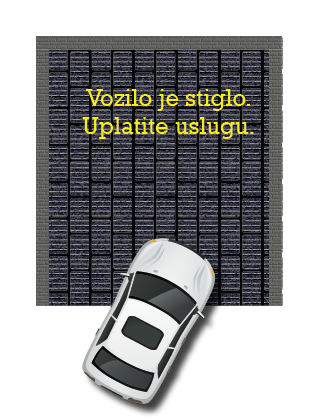
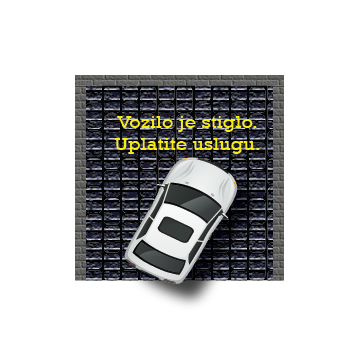
Updated Desing Parking Slots

diff --git a/JavaApp/ParkingSimulator/src/parkingsimulator/Views/MainFrame.java b/JavaApp/ParkingSimulator/src/parkingsimulator/Views/MainFrame.java
@@ -9,12 +9,16 @@ import java.awt.BorderLayout;
 import java.awt.Color;
 import java.awt.Dimension;
 import java.awt.Toolkit;
+import java.awt.image.BufferedImage;
+import java.io.File;
 import java.text.SimpleDateFormat;
 import java.util.ArrayList;
 import java.util.Date;
 import java.util.Random;
 import java.util.logging.Level;
 import java.util.logging.Logger;
+import javax.imageio.ImageIO;
+import javax.swing.ImageIcon;
 import parkingsimulator.Arduino.ArduinoController;
 import parkingsimulator.Models.DBController;
 
@@ -29,6 +33,7 @@ public class MainFrame extends javax.swing.JFrame {
     ArrayList<String> prethodne_poruke=new ArrayList();
     ArrayList<StringBuffer> boje=new ArrayList();
     ArrayList<StringBuffer> ids=new ArrayList();
+    String path = new File("").getAbsolutePath()+"\\src\\parkingsimulator\\Views\\Slike";
     int br_mesta=4;
     public MainFrame() {
         ids.add(new StringBuffer(""));
@@ -78,9 +83,22 @@ public class MainFrame extends javax.swing.JFrame {
                             }
                             System.out.println(boje.get(0).charAt(0));
                             if(boje.get(0).charAt(0)=='y')
-                                ParkingMesto1.setBackground(Color.yellow);
+                               //KOM ParkingMesto1.setBackground(Color.yellow);
+                                 try{
+                             BufferedImage myPicture = ImageIO.read(new File(path+"\\WoziloJeStiglo.png"));
+                              pkLabel0.setIcon(new ImageIcon(myPicture));
+                            }catch(Exception ecc){
+                                ecc.printStackTrace();
+                            }
+                                        
                             else{
-                                ParkingMesto1.setBackground(Color.red);    
+                               //KOM ParkingMesto1.setBackground(Color.red); 
+                                 try{
+                             BufferedImage myPicture = ImageIO.read(new File(path+"\\MestoZauzeto.png"));
+                              pkLabel0.setIcon(new ImageIcon(myPicture));
+                            }catch(Exception ect){
+                                ect.printStackTrace();
+                            }
                             }
                             br_mesta--;
                             btnPlati1.setEnabled(true);
@@ -96,7 +114,14 @@ public class MainFrame extends javax.swing.JFrame {
                             
                             boje.get(0).replace(0, boje.get(0).length(), "y");
                             btnPlati1.setEnabled(false);
-                            ParkingMesto1.setBackground(Color.green);
+                            System.out.println(path);
+                            try{
+                             BufferedImage myPicture = ImageIO.read(new File(path+"\\mestoSlobodno.png"));
+                              pkLabel0.setIcon(new ImageIcon(myPicture));
+                            }catch(Exception ec){
+                                ec.printStackTrace();
+                            } 
+                           //KOM ParkingMesto1.setBackground(Color.green);
                         }
                         break;
                     case '1':
@@ -114,9 +139,21 @@ public class MainFrame extends javax.swing.JFrame {
                              //   System.out.println("Ne radi nista");
                             }
                             if(boje.get(1).charAt(0)=='y')
-                                ParkingMesto2.setBackground(Color.yellow);
+                                try{
+                             BufferedImage myPicture = ImageIO.read(new File(path+"\\WoziloJeStiglo.png"));
+                              pkLabel1.setIcon(new ImageIcon(myPicture));
+                            }catch(Exception ecc){
+                                ecc.printStackTrace();
+                            }
+                                //ParkingMesto2.setBackground(Color.yellow);
                             else{
-                                ParkingMesto2.setBackground(Color.red);    
+                                try{
+                             BufferedImage myPicture = ImageIO.read(new File(path+"\\MestoZauzeto.png"));
+                              pkLabel1.setIcon(new ImageIcon(myPicture));
+                            }catch(Exception ecc){
+                                ecc.printStackTrace();
+                            }
+                                //ParkingMesto2.setBackground(Color.red);    
                             }
                                 br_mesta--;
                                 btnPlati2.setEnabled(true);
@@ -130,7 +167,13 @@ public class MainFrame extends javax.swing.JFrame {
                             //    System.out.println("Ne radi nista");
                             }
                             boje.get(1).replace(0, boje.get(1).length(), "y");
-                            ParkingMesto2.setBackground(Color.green);
+                            try{
+                             BufferedImage myPicture = ImageIO.read(new File(path+"\\mestoSlobodno.png"));
+                              pkLabel1.setIcon(new ImageIcon(myPicture));
+                            }catch(Exception ecc){
+                                ecc.printStackTrace();
+                            }
+                            //ParkingMesto2.setBackground(Color.green);
                             btnPlati2.setEnabled(false);
                         }
                         break;
@@ -149,9 +192,21 @@ public class MainFrame extends javax.swing.JFrame {
                              //   System.out.println("Ne radi nista");
                             }
                             if(boje.get(2).charAt(0)=='y')
-                                ParkingMesto3.setBackground(Color.yellow);
+                           try{
+                             BufferedImage myPicture = ImageIO.read(new File(path+"\\WoziloJeStiglo.png"));
+                              pkLabel2.setIcon(new ImageIcon(myPicture));
+                            }catch(Exception ecc){
+                                ecc.printStackTrace();
+                            }   
+                            //  ParkingMesto3.setBackground(Color.yellow);
                             else{
-                                ParkingMesto3.setBackground(Color.red);    
+                                try{
+                             BufferedImage myPicture = ImageIO.read(new File(path+"\\MestoZauzeto.png"));
+                              pkLabel2.setIcon(new ImageIcon(myPicture));
+                            }catch(Exception ecc){
+                                ecc.printStackTrace();
+                            }
+                               // ParkingMesto3.setBackground(Color.red);    
                             }
                             br_mesta--;
                             btnPlati3.setEnabled(true);
@@ -165,7 +220,13 @@ public class MainFrame extends javax.swing.JFrame {
                              //   System.out.println("Ne radi nista");
                             }
                             boje.get(2).replace(0, boje.get(2).length(), "y");
-                            ParkingMesto3.setBackground(Color.green);
+                           try{
+                             BufferedImage myPicture = ImageIO.read(new File(path+"\\mestoSlobodno.png"));
+                              pkLabel2.setIcon(new ImageIcon(myPicture));
+                            }catch(Exception ecc){
+                                ecc.printStackTrace();
+                            }
+                            // ParkingMesto3.setBackground(Color.green);
                             btnPlati3.setEnabled(false);
                         }
                         break;
@@ -185,8 +246,20 @@ public class MainFrame extends javax.swing.JFrame {
                             //    System.out.println("Ne radi nista");
                             }
                             if(boje.get(3).charAt(0)=='y')
-                                ParkingMesto4.setBackground(Color.yellow);
+                                try{
+                             BufferedImage myPicture = ImageIO.read(new File(path+"\\WoziloJeStiglo.png"));
+                              pkLabel3.setIcon(new ImageIcon(myPicture));
+                            }catch(Exception ecc){
+                                ecc.printStackTrace();
+                            }
+                                //ParkingMesto4.setBackground(Color.yellow);
                             else{
+                                try{
+                             BufferedImage myPicture = ImageIO.read(new File(path+"\\MestoZauzeto.png"));
+                              pkLabel3.setIcon(new ImageIcon(myPicture));
+                            }catch(Exception ecc){
+                                ecc.printStackTrace();
+                            }
                                 ParkingMesto4.setBackground(Color.red);    
                             }
                             br_mesta--;
@@ -201,7 +274,13 @@ public class MainFrame extends javax.swing.JFrame {
                              //   System.out.println("Ne radi nista");
                             }
                             boje.get(3).replace(0, boje.get(3).length(), "y");
-                            ParkingMesto4.setBackground(Color.green);
+                            try{
+                             BufferedImage myPicture = ImageIO.read(new File(path+"\\mestoSlobodno.png"));
+                              pkLabel3.setIcon(new ImageIcon(myPicture));
+                            }catch(Exception ecc){
+                                ecc.printStackTrace();
+                            }
+                            //ParkingMesto4.setBackground(Color.green);
                             btnPlati4.setEnabled(false);
                         }
                         break;
@@ -233,18 +312,22 @@ public class MainFrame extends javax.swing.JFrame {
         jLabel1 = new javax.swing.JLabel();
         lblVreme1 = new javax.swing.JLabel();
         btnPlati1 = new javax.swing.JButton();
+        pkLabel0 = new javax.swing.JLabel();
         ParkingMesto2 = new javax.swing.JPanel();
         jLabel3 = new javax.swing.JLabel();
         btnPlati2 = new javax.swing.JButton();
         lblVreme2 = new javax.swing.JLabel();
+        pkLabel1 = new javax.swing.JLabel();
         ParkingMesto3 = new javax.swing.JPanel();
         jLabel4 = new javax.swing.JLabel();
         lblVreme3 = new javax.swing.JLabel();
         btnPlati3 = new javax.swing.JButton();
+        pkLabel2 = new javax.swing.JLabel();
         ParkingMesto4 = new javax.swing.JPanel();
         jLabel2 = new javax.swing.JLabel();
         lblVreme4 = new javax.swing.JLabel();
         btnPlati4 = new javax.swing.JButton();
+        pkLabel3 = new javax.swing.JLabel();
         jLabel5 = new javax.swing.JLabel();
         pnlTabla = new javax.swing.JPanel();
         jLabel7 = new javax.swing.JLabel();
@@ -270,7 +353,7 @@ public class MainFrame extends javax.swing.JFrame {
         jpanComponent.setBackground(new java.awt.Color(0, 40, 43));
         jpanComponent.setPreferredSize(new java.awt.Dimension(630, 470));
 
-        ParkingMesto1.setBackground(new java.awt.Color(255, 51, 51));
+        ParkingMesto1.setBackground(new java.awt.Color(0, 40, 43));
         ParkingMesto1.setMaximumSize(new java.awt.Dimension(200, 150));
         ParkingMesto1.setMinimumSize(new java.awt.Dimension(200, 150));
         ParkingMesto1.setPreferredSize(new java.awt.Dimension(200, 150));
@@ -284,7 +367,7 @@ public class MainFrame extends javax.swing.JFrame {
         jLabel1.setMaximumSize(new java.awt.Dimension(50, 50));
         jLabel1.setMinimumSize(new java.awt.Dimension(50, 50));
         jLabel1.setPreferredSize(new java.awt.Dimension(50, 50));
-        ParkingMesto1.add(jLabel1, new org.netbeans.lib.awtextra.AbsoluteConstraints(120, 70, 30, 40));
+        ParkingMesto1.add(jLabel1, new org.netbeans.lib.awtextra.AbsoluteConstraints(300, 230, 30, 40));
 
         lblVreme1.setFont(new java.awt.Font("Comic Sans MS", 0, 14)); // NOI18N
         lblVreme1.setForeground(new java.awt.Color(255, 255, 255));
@@ -302,7 +385,12 @@ public class MainFrame extends javax.swing.JFrame {
         });
         ParkingMesto1.add(btnPlati1, new org.netbeans.lib.awtextra.AbsoluteConstraints(0, 0, 90, 30));
 
-        ParkingMesto2.setBackground(new java.awt.Color(255, 204, 51));
+        pkLabel0.setHorizontalAlignment(javax.swing.SwingConstants.CENTER);
+        pkLabel0.setHorizontalTextPosition(javax.swing.SwingConstants.CENTER);
+        pkLabel0.setPreferredSize(new java.awt.Dimension(330, 270));
+        ParkingMesto1.add(pkLabel0, new org.netbeans.lib.awtextra.AbsoluteConstraints(0, 0, 330, 270));
+
+        ParkingMesto2.setBackground(new java.awt.Color(0, 40, 43));
         ParkingMesto2.setMaximumSize(new java.awt.Dimension(200, 150));
         ParkingMesto2.setMinimumSize(new java.awt.Dimension(200, 150));
         ParkingMesto2.setPreferredSize(new java.awt.Dimension(200, 150));
@@ -316,7 +404,7 @@ public class MainFrame extends javax.swing.JFrame {
         jLabel3.setMaximumSize(new java.awt.Dimension(50, 50));
         jLabel3.setMinimumSize(new java.awt.Dimension(50, 50));
         jLabel3.setPreferredSize(new java.awt.Dimension(50, 50));
-        ParkingMesto2.add(jLabel3, new org.netbeans.lib.awtextra.AbsoluteConstraints(130, 70, 30, 40));
+        ParkingMesto2.add(jLabel3, new org.netbeans.lib.awtextra.AbsoluteConstraints(300, 230, 30, 40));
 
         btnPlati2.setBackground(new java.awt.Color(204, 204, 204));
         btnPlati2.setFont(new java.awt.Font("Comic Sans MS", 0, 12)); // NOI18N
@@ -333,8 +421,9 @@ public class MainFrame extends javax.swing.JFrame {
         lblVreme2.setForeground(new java.awt.Color(255, 255, 255));
         lblVreme2.setText("Vreme 2");
         ParkingMesto2.add(lblVreme2, new org.netbeans.lib.awtextra.AbsoluteConstraints(190, 0, 80, 27));
+        ParkingMesto2.add(pkLabel1, new org.netbeans.lib.awtextra.AbsoluteConstraints(0, 0, 330, 290));
 
-        ParkingMesto3.setBackground(new java.awt.Color(0, 153, 0));
+        ParkingMesto3.setBackground(new java.awt.Color(0, 40, 43));
         ParkingMesto3.setMaximumSize(new java.awt.Dimension(200, 150));
         ParkingMesto3.setMinimumSize(new java.awt.Dimension(200, 150));
         ParkingMesto3.setPreferredSize(new java.awt.Dimension(200, 150));
@@ -348,7 +437,7 @@ public class MainFrame extends javax.swing.JFrame {
         jLabel4.setMaximumSize(new java.awt.Dimension(50, 50));
         jLabel4.setMinimumSize(new java.awt.Dimension(50, 50));
         jLabel4.setPreferredSize(new java.awt.Dimension(50, 50));
-        ParkingMesto3.add(jLabel4, new org.netbeans.lib.awtextra.AbsoluteConstraints(130, 70, 30, 40));
+        ParkingMesto3.add(jLabel4, new org.netbeans.lib.awtextra.AbsoluteConstraints(300, 230, 30, 40));
 
         lblVreme3.setFont(new java.awt.Font("Comic Sans MS", 0, 14)); // NOI18N
         lblVreme3.setForeground(new java.awt.Color(255, 255, 255));
@@ -365,8 +454,9 @@ public class MainFrame extends javax.swing.JFrame {
             }
         });
         ParkingMesto3.add(btnPlati3, new org.netbeans.lib.awtextra.AbsoluteConstraints(0, 0, 70, 30));
+        ParkingMesto3.add(pkLabel2, new org.netbeans.lib.awtextra.AbsoluteConstraints(0, 0, 340, 270));
 
-        ParkingMesto4.setBackground(new java.awt.Color(0, 0, 204));
+        ParkingMesto4.setBackground(new java.awt.Color(0, 40, 43));
         ParkingMesto4.setMaximumSize(new java.awt.Dimension(200, 150));
         ParkingMesto4.setMinimumSize(new java.awt.Dimension(200, 150));
         ParkingMesto4.setPreferredSize(new java.awt.Dimension(200, 150));
@@ -380,7 +470,7 @@ public class MainFrame extends javax.swing.JFrame {
         jLabel2.setMaximumSize(new java.awt.Dimension(50, 50));
         jLabel2.setMinimumSize(new java.awt.Dimension(50, 50));
         jLabel2.setPreferredSize(new java.awt.Dimension(50, 50));
-        ParkingMesto4.add(jLabel2, new org.netbeans.lib.awtextra.AbsoluteConstraints(130, 60, 30, 50));
+        ParkingMesto4.add(jLabel2, new org.netbeans.lib.awtextra.AbsoluteConstraints(300, 220, 30, 50));
 
         lblVreme4.setFont(new java.awt.Font("Comic Sans MS", 0, 14)); // NOI18N
         lblVreme4.setForeground(new java.awt.Color(255, 255, 255));
@@ -397,6 +487,7 @@ public class MainFrame extends javax.swing.JFrame {
             }
         });
         ParkingMesto4.add(btnPlati4, new org.netbeans.lib.awtextra.AbsoluteConstraints(0, 0, 70, 30));
+        ParkingMesto4.add(pkLabel3, new org.netbeans.lib.awtextra.AbsoluteConstraints(0, 0, 330, 270));
 
         jLabel5.setHorizontalAlignment(javax.swing.SwingConstants.CENTER);
         jLabel5.setIcon(new javax.swing.ImageIcon(getClass().getResource("/parkingsimulator/Views/Slike/PUTTTTT-01.png"))); // NOI18N
@@ -626,6 +717,10 @@ public class MainFrame extends javax.swing.JFrame {
     private javax.swing.JLabel lblVreme2;
     private javax.swing.JLabel lblVreme3;
     private javax.swing.JLabel lblVreme4;
+    private javax.swing.JLabel pkLabel0;
+    private javax.swing.JLabel pkLabel1;
+    private javax.swing.JLabel pkLabel2;
+    private javax.swing.JLabel pkLabel3;
     private javax.swing.JPanel pnlBackground;
     private javax.swing.JPanel pnlOpcijeGlavni;
     private javax.swing.JPanel pnlTabla;

diff --git a/JavaApp/ParkingSimulator/src/parkingsimulator/Views/PlatiFrame.java b/JavaApp/ParkingSimulator/src/parkingsimulator/Views/PlatiFrame.java
@@ -175,7 +175,7 @@ public class PlatiFrame extends javax.swing.JFrame {
             }
             System.out.println(redniBroj);
             this.boje.get(redniBroj).replace(0, boje.get(redniBroj).length(), "r");
-            panelKojiMenjam.setBackground(Color.red);
+            //panelKojiMenjam.setBackground(Color.red);
             JOptionPane.showMessageDialog(null, "Uspesno ste uplatili!");
             this.setVisible(false);
             this.dispose();
